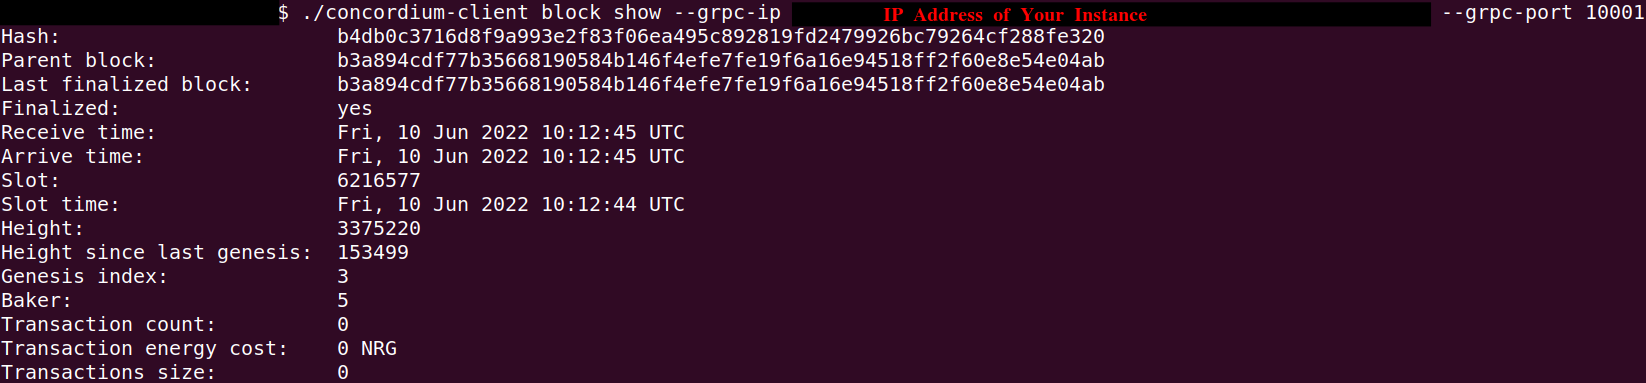
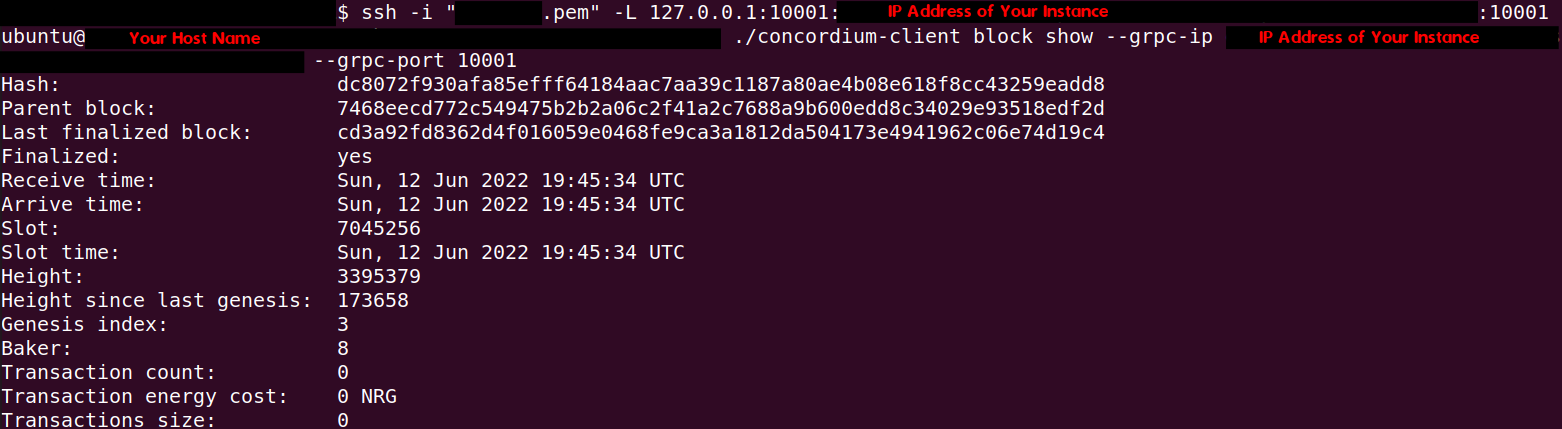
UPDATED: added deploying.rst guide

diff --git a/source/mainnet/smart-contracts/tutorials/piggy-bank/preparing.rst b/source/mainnet/smart-contracts/tutorials/piggy-bank/preparing.rst
@@ -11,7 +11,7 @@ development.
 So far you have written and tested a piggy bank smart contract in the Rust_ programming
 language.
 This part will focus on how you can set up your own testnet node on a server, and create a testnet account.
-In more detail, you will create an instance on a server that will host your own testnet node. Secondly, you will create your own testnet account and import the keys to your testnet node.
+In more detail, you will create an instance on a server that will host your own testnet node. Secondly, you will create your own testnet account and prepare it so you can use it in the fourth :ref:`part of this tutorial<piggy-bank-deploying>` for deploying and interacting with smart contracts.
 
 .. warning::
 
@@ -54,26 +54,28 @@ The :ref:`run a node <node-requirements>` guide will help you set up your instan
 
 Start the syncing process of the testnet node by following the guide for your platform :ref:`Ubuntu<ubuntu-node>`, :ref:`Docker<docker-node>`, :ref:`Windows<windows-node>`, or :ref:`MacOS<macos-node>`.
 
-You should find your node name on the `Concordium testnet dashboard <https://dashboard.testnet.concordium.com/>`__. It will take around 1-2 days until your testnet node is fully synced. You can observe the syncing process by watching the finalization length of your node. Wait until the `Fin Length` (finalization length) of your node is the same as the highest value used by the majority of nodes.
+You should find your node name on the `Concordium testnet dashboard <https://dashboard.testnet.concordium.com/>`__. It will take around 1-2 days until your testnet node is fully synced. You can observe the syncing process by watching the finalization length of your node. Wait until the ``Fin Length`` (finalization length) of your node is the same as the highest value used by the majority of nodes.
 
 .. image:: ./images/pb_tutorial_13.png
    :width: 100 %
 
 .. Note::
-   It is a good practice to enable inbound connection on the port 8889 (testnet) in your instance. You can allow inbound connection from any IPv4 and IPv6 address, by selecting `0.0.0.0/0` and `::/0` on the port 8889. This is not mandatory for the node to sync but it will make your node a good network participant. Feel free to skip this step if you are not feeling confident editing the inbound connection rules of your instance.
+   It is a good practice to enable inbound connection on the port 8889 (testnet) in your instance. You can allow inbound connection from any IPv4 and IPv6 address, by selecting ``0.0.0.0/0`` and ``::/0`` on the port 8889. This is not mandatory for the node to sync but it will make your node a good network participant. Feel free to skip this step if you are not feeling confident editing the inbound connection rules of your instance.
 
 .. image:: ./images/pb_tutorial_12.png
    :width: 100 %
 
+.. _interacting_with_your_testnet_node:
+
 Interacting with your testnet node
 ==================================
 
-You are now ready to download the :ref:`Concordium Client<concordium-node-and-client-download-testnet>` package. Please rename the package to just `concordium-client` in case it has some version annotation so you can follow the commands in this guide easily.
+You are now ready to download the :ref:`concordium-client<concordium-node-and-client-download-testnet>` package. Please rename the package to just ``concordium-client`` in case it has some version annotation so you can follow the commands in this guide easily.
 
 .. Note::
    If you are not using ubuntu as operation system the following screenshots look differently. Please remember to adjust the following commands based on your operation system if you are not using ubuntu.
 
-Move to the folder that you downloaded the concordium client to. You can check if you are in the correct folder when you see the output `concordium-client` from the command:
+Move to the folder that you downloaded the ``concordium-client`` to. You can check if you are in the correct folder when you see the output ``concordium-client`` from the command:
 
 .. code-block:: console
 
@@ -94,31 +96,31 @@ The package is not yet executable. You change this with the command:
 
 
 
-Let's check if you can execute the concordium client tool.
+Let's check if you can execute the ``concordium-client`` tool.
 
 
 .. code-block:: console
 
    $./concordium-client --help
 
-You should see some output that will help you in getting familiar with the concordium client tool.
+You should see some output that will help you in getting familiar with the ``concordium-client`` tool.
 
 .. image:: ./images/pb_tutorial_9.png
    :width: 100 %
 
-The concordium client tool will allow you to interact with your testnet node. You find important commands that the concordium client tool provides :ref:`here<concordium_client>`.
+The ``concordium-client`` tool will allow you to interact with your testnet node. You find important commands that the ``concordium-client`` tool provides :ref:`here<concordium_client>`.
 
-Your next task enables the concordium client tool to talk to your testnet node. There are two options to achieve this:
+Your next task enables the ``concordium-client`` tool to talk to your testnet node. There are two options to achieve this:
 
 1. Option (beginners)
 
-This option explains how to transfer the concordium client tool to your instance and execute commands from within the instance.
+This option explains how to transfer the ``concordium-client`` tool to your instance and execute commands from within the instance.
 
-**Advantage**: You don't have to adjust the inbound connection rules to your instance.
+**Advantage**: You can execute the commands within your instance.
 
-**Disadvantage**: You have to transfer files between your local machine and your instance later in the tutorial when we deploy the smart contracts.
+**Disadvantage**: You have to transfer files between your local machine and your instance later in the tutorial.
 
-Transfer the concordium client package from your machine via a file-sharing tool (such as `FileZilla`) to your instance.
+Transfer the ``concordium-client`` package from your machine via a file-sharing tool (such as ``FileZilla``) to your instance.
 
 Connect to your instance and make your package executable again as we done previously already:
 
@@ -142,23 +144,26 @@ You should see some block data output.
 
 2. Option (advanced users)
 
-This option explains how you can use the concordium client tool locally at your machine and connect remotely to your node running on the server.
+This option explains how you can use the ``concordium-client`` tool locally at your machine and connect remotely to your node running on the server.
 
-**Advantage**: You don't have to transfer files between your local machine and your instance later in the tutorial when we deploy the smart contracts.
+**Advantage**: You don't have to transfer files between your local machine and your instance later in the tutorial.
 
-**Disadvantage**: You have to adjust the inbound connection rules to your instance.
+**Disadvantage**: You have to use ssh with port forwarding every time you locally run a command.
 
-.. Note::
-   Port 10001 is open by default on your testnet node to interact with it. But you have to open port 10001 in your inbound connection rules for your instance as well. Please open the port only for your IP address. Please be aware of the security implication, it is assumed that you are the only person using that IP address. Please be aware that we recommend this option for advanced users.
-
-.. image:: ./images/pb_tutorial_14.png
-   :width: 100 %
-
-Let's check if everything is connected correctly by displaying the best/latest block.
+Since you have a remote server your cloud provider usually gives you an option to ssh into it. Add the following port forwarding rule to your method to ssh into your instance. The port 10001 at your localhost (127.0.0.1) is forwarded to the port 10001 at your instance.
 
 .. code-block:: console
 
-   $./concordium-client block show --grpc-ip <IP Address of Your Instance> --grpc-port 10001
+   $ssh -L 127.0.0.1:10001:<IP Address of Your Instance>:10001 <username>@<host>
+
+.. Note::
+   Port 10001 is open by default on your testnet node to interact with it. Cloud providers often use ``ubuntu`` as the default <username> and the <IP Address of Your Instance> as the default <host>.
+
+Move to the folder that you downloaded the ``concordium-client`` to. Let's check if everything is connected correctly by displaying the best/latest block.
+
+.. code-block:: console
+
+   $ssh -L 127.0.0.1:10001:<IP Address of Your Instance>:10001 <username>@<host> ./concordium-client block show --grpc-ip <IP Address of Your Instance> --grpc-port 10001
 
 You should see some block data output.
 
@@ -166,13 +171,15 @@ You should see some block data output.
    :width: 100 %
 
 
-Create a mobile wallet account on testnet
-=========================================
+Creating a mobile wallet account on testnet
+===========================================
+You are ready to create a mobile wallet account now.
 
-You can create an account with any of the officially provided wallets from Concordium. This tutorial focuses on the mobile wallet.
+.. Note::
+   Only the Concordium mobile wallet currently supports exporting of keys. Please do not use the Concordium desktop wallet for this tutorial.
 
 You can download the mobile wallet package from the :ref:`installation page<downloads-mobile-wallet-testnet>`.
-If you follow the instruction in the mobile app you are asked to name your account and to name your initial identity card. This tutorial uses `Concordium` for the account name and `Account1` for the identity card name but feel free to chose your own naming.
+If you follow the instruction in the mobile app you are asked to name your account and to name your initial identity card. This tutorial uses ``Concordium`` for the account name and ``Account1`` for the identity card name but feel free to chose your own naming.
 
 
 .. image:: ./images/pb_tutorial_1.png
@@ -185,7 +192,7 @@ If you follow the instruction in the mobile app you are asked to name your accou
    :width: 20 %
 
 
-You don't have to provide an ID to create an account on testnet when selecting `Concordium testnet IP`. This gives you an example for a dummy identity that you can customise or use as it is. Dummy identities are meant for testnet testing only.
+You don't have to provide an ID to create an account on testnet when selecting ``Concordium testnet IP``. This gives you an example for a dummy identity that you can customise or use as it is. Dummy identities are meant for testnet testing only.
 
 .. image:: ./images/pb_tutorial_4.png
    :width: 20 %
@@ -203,29 +210,26 @@ You also have to request some testnet CCD. The mobile app wallet has a button th
 .. Note::
    Some CCD on your testnet account is needed later when sending transactions from your account to the testnet blockchain.
 
-Create a backup of your wallet by clicking the `Backup` button in the mobile app. Save the file `concordium-backup.concordiumwallet` for now because it will be used in the next section.
+Create a backup of your wallet by clicking the ``Backup`` button in the mobile app. Save the file ``concordium-backup.concordiumwallet`` for now because it will be used in the next section.
 
 .. image:: ./images/pb_tutorial_7.png
    :width: 20 %
 
 .. Note::
-   Please remember the `export password` that you used for creating the backup file. The password is needed later when importing your account key into the testnet node.
+   Please remember the ``export password`` that you used for creating the backup file. The password is needed later when importing your account key into the ``concordium-client`` configuration.
 
 
-Import your mobile wallet account key to your testnet node
-==========================================================
+Importing your mobile wallet account key
+========================================
 
-You are ready now to import your keys to your testnet node. Let's transfer your wallet backup file (meaning the file `concordium-backup.concordiumwallet`) to the place where you are running your concordium client tool.
+You are ready now to import your key into the ``concordium-client`` configuration. Let's transfer your wallet backup file (meaning the file ``concordium-backup.concordiumwallet``) to the place where you are running your ``concordium-client`` tool. Move to the folder as well.
 
-.. Note::
-   You can use a file-sharing tool (such as `FileZilla`) to transfer your wallet backup file from e.g. your local machine to your instance.
-
-You are set for importing your key to your testnet node now:
+You are set for importing your key into the ``concordium-client`` configuration:
 
 .. code-block:: console
 
    $./concordium-client config account import ./concordium-backup.concordiumwallet
 
 .. Note::
-   You will be asked to input a password. Use the password from the back-up operation on your mobile wallet.
+   You will be asked to input a password. Use the ``export password`` that you used for creating the backup file.
 

diff --git a/source/mainnet/smart-contracts/tutorials/piggy-bank/deploying.rst b/source/mainnet/smart-contracts/tutorials/piggy-bank/deploying.rst
@@ -1,56 +1,4 @@
 .. _Rust: https://www.rust-lang.org/
-.. _concordium-std: https://docs.rs/concordium-std/latest/concordium_std/index.html
-.. |concordium-std| replace:: ``concordium-std``
-.. _test_infrastructure: https://docs.rs/concordium-std/latest/concordium_std/test_infrastructure/index.html
-.. |test_infrastructure| replace:: ``test_infrastructure``
-.. _init: https://docs.rs/concordium-std/latest/concordium_std/attr.init.html
-.. |init| replace:: ``#[init]``
-.. _receive: https://docs.rs/concordium-std/latest/concordium_std/attr.receive.html
-.. |receive| replace:: ``#[receive]``
-.. _TestInitContext: https://docs.rs/concordium-std/latest/concordium_std/test_infrastructure/type.TestInitContext.html
-.. |TestInitContext| replace:: ``TestInitContext``
-.. _TestReceiveContext: https://docs.rs/concordium-std/latest/concordium_std/test_infrastructure/type.TestReceiveContext.html
-.. |TestReceiveContext| replace:: ``TestReceiveContext``
-.. _TestHost: https://docs.rs/concordium-std/latest/concordium_std/test_infrastructure/struct.TestHost.html
-.. |TestHost| replace:: ``TestHost``
-.. _TestStateBuilder: https://docs.rs/concordium-std/latest/concordium_std/test_infrastructure/type.TestStateBuilder.html
-.. |TestStateBuilder| replace:: ``TestStateBuilder``
-.. _HasInitContext: https://docs.rs/concordium-std/latest/concordium_std/trait.HasInitContext.html
-.. |HasInitContext| replace:: ``HasInitContext``
-.. _HasStateApi: https://docs.rs/concordium-std/latest/concordium_std/trait.HasStateApi.html
-.. |HasStateApi| replace:: ``HasStateApi``
-.. _AccountAddress: https://docs.rs/concordium-std/latest/concordium_std/struct.AccountAddress.html
-.. |AccountAddress| replace:: ``AccountAddress``
-.. _set_owner: https://docs.rs/concordium-std/latest/concordium_std/test_infrastructure/type.TestReceiveContext.html#method.set_owner
-.. |set_owner| replace:: ``set_owner``
-.. _Address: https://docs.rs/concordium-std/latest/concordium_std/enum.Address.html
-.. |Address| replace:: ``Address``
-.. _set_sender: https://docs.rs/concordium-std/latest/concordium_std/test_infrastructure/type.TestReceiveContext.html#method.set_sender
-.. |set_sender| replace:: ``set_sender``
-.. _set_self_balance: https://docs.rs/concordium-std/latest/concordium_std/test_infrastructure/struct.TestHost.html#method.set_self_balance
-.. |set_self_balance| replace:: ``set_self_balance``
-.. _invoke_transfer: https://docs.rs/concordium-std/latest/concordium_std/trait.HasHost.html#tymethod.invoke_transfer
-.. |invoke_transfer| replace:: ``invoke_transfer``
-.. _get_transfers: https://docs.rs/concordium-std/latest/concordium_std/test_infrastructure/struct.TestHost.html#method.get_transfers
-.. |get_transfers| replace:: ``get_transfers``
-.. _concordium_cfg_test: https://docs.rs/concordium-std/latest/concordium_std/attr.concordium_cfg_test.html
-.. |concordium_cfg_test| replace:: ``#[concordium_cfg_test]``
-.. _concordium_test: https://docs.rs/concordium-std/latest/concordium_std/attr.concordium_test.html
-.. |concordium_test| replace:: ``#[concordium_test]``
-.. _fail: https://docs.rs/concordium-std/latest/concordium_std/macro.fail.html
-.. |fail| replace:: ``fail!``
-.. _expect_report: https://docs.rs/concordium-std/latest/concordium_std/trait.ExpectReport.html#tymethod.expect_report
-.. |expect_report| replace:: ``expect_report``
-.. _expect_err_report: https://docs.rs/concordium-std/latest/concordium_std/trait.ExpectErrReport.html#tymethod.expect_err_report
-.. |expect_err_report| replace:: ``expect_err_report``
-.. _claim: https://docs.rs/concordium-std/latest/concordium_std/macro.claim.html
-.. |claim| replace:: ``claim!``
-.. _claim_eq: https://docs.rs/concordium-std/latest/concordium_std/macro.claim_eq.html
-.. |claim_eq| replace:: ``claim_eq!``
-.. _ensure: https://docs.rs/concordium-std/latest/concordium_std/macro.ensure.html
-.. |ensure| replace:: ``ensure!``
-.. _mutable: https://docs.rs/concordium-std-derive/latest/concordium_std_derive/attr.receive.html#mutable-function-can-mutate-the-state
-.. |mutable| replace:: ``mutable``
 
 .. _piggy-bank-deploying:
 
@@ -60,10 +8,9 @@ Deploying the piggy bank smart contract
 
 This is the fourth :ref:`part of a tutorial<piggy-bank>` on smart contract
 development.
-So far you have written and tested a piggy bank smart contract in the Rust_ programming
-language and setup your testnet node on a server.
-This part will focus on how you can deploy your developed
-piggy bank smart contract to the testnet node and interact with it.
+So far you have written and tested a piggy bank smart contract in the Rust_ programming language. Furthermore, you set up your testnet node on a server, created an account that is funded with some CCD, and  imported your account key into the ``concordium-client`` configuration.
+This part will focus on how you can deploy your developed piggy bank smart contract to the testnet node and interact with it.
+
 
 .. warning::
 
@@ -73,3 +20,95 @@ piggy bank smart contract to the testnet node and interact with it.
 
 Preparation
 ===========
+
+Before you start, make sure you completed the previous parts of the tutorial and have a running testnet node and an account with some CCD setup.
+
+Building a wasm module
+======================
+
+You have already built a wasm module from your piggy bank smart contract in a :ref:`previous part<cargo_concordium_build>` of this tutorial.
+
+Let's repeat this step since you might have done some changes to the smart contract code in :ref:`part 2<piggy-bank-testing>` of this tutorial. Move to the folder where you saved your piggy bank smart contract and use ``cargo concordium build`` to create a wasm module.
+
+.. code-block:: console
+
+   $cargo concordium build
+
+.. Note::
+   This command creates a module ``piggy_bank_part2.wasm.v1`` in the folder ``./target/concordium/wasm32-unknown-unknown/release/``. Please use the wasm module file suffixed with `v1` which is the newest smart contract version supported by the Concordium chain.
+
+The ``piggy_bank_part2.wasm.v1`` file can be deployed to the Concordium chain. Let’s transfer the ``piggy_bank_part2.wasm.v1`` file to the place where you are running your concordium-client tool. Move to the folder as well.
+
+Deploying a module
+==================
+You are now set up to deploy the piggy bank module to the testnet chain.
+
+.. Note::
+   Please remember to adjust the following commands when you are running your ``concordium-client`` tool locally and want to connect to your node on the server. You can look up the different options on how to connect the ``concordium-client`` tool to your testnet node :ref:`here<interacting_with_your_testnet_node>`.
+
+.. code-block:: console
+
+   $./concordium-client module deploy piggy_bank_part2.wasm.v1 --sender <Account name> --grpc-port 10001
+
+
+.. Note::
+   This tutorial used ``Concordium`` for the <Account name>.
+
+.. Note::
+   You will be asked to input a password. It is the password that you use for your mobile app wallet log-in.
+
+If everything works correctly the output has a green line with your module reference. Remember this module reference since it will be used in the next step. You can find additional information about deploying a module in this :ref:`guide<deploy-module>`.
+
+Initializing a module
+=====================
+
+You can initialize your smart contract now to create an smart contract instance.
+
+.. code-block:: console
+
+   $./concordium-client contract init <module reference> --sender <Account name> --contract PiggyBank --energy 1000 --grpc-port 10001
+
+.. Note::
+   Use enough energy to initialize the piggy bank smart contract.
+
+
+If everything works correctly the output has a green line with your smart contract instance index. Remember this index since it will be used in the next step.
+
+.. code-block:: console
+
+   Contract successfully initialized with address: {"index":<Smart contract instance index>,"subindex":0}
+
+You can find additional information about initializing a module in this :ref:`guide<initialize-contract>`.
+
+
+Updating the piggy bank smart contract
+======================================
+
+Let's deposit 1 CCD into the piggy bank to test if we can update the smart contract instance.
+
+.. code-block:: console
+
+   $./concordium-client contract update <Smart contract instance index> --entrypoint insert --energy 1000 --sender <Account name> --amount 1 --grpc-port 10001
+
+If everything works correctly the output has a green line as follows:
+
+.. code-block:: console
+
+   Successfully updated contract instance {"index":<Smart contract instance index>,"subindex":0} using the function 'insert'.
+
+You can find additional information about updating a module in this :ref:`guide<interact-instance>`.
+
+
+Viewing the piggy bank state
+============================
+
+You can display the raw state of your piggy bank smart contract with the following command.
+
+.. code-block:: console
+
+   $./concordium-client contract invoke <Smart contract instance index> --entrypoint view --energy 1000 --grpc-port 10001
+
+You can find additional information about invoking in this :ref:`guide<invoke-instance>`.
+
+
+Congratulation. You went through the whole piggy bank tutorial.

diff --git a/source/mainnet/smart-contracts/tutorials/piggy-bank/writing.rst b/source/mainnet/smart-contracts/tutorials/piggy-bank/writing.rst
@@ -550,6 +550,7 @@ different parts of the state or return a value computed from the state.
 
    To view return values of a contract instance on the chain, see the guide :ref:`invoke-instance`.
 
+.. _cargo_concordium_build:
 
 You now have all the parts for your piggy bank smart contract. Before you start testing it, check that it builds by running:
 
